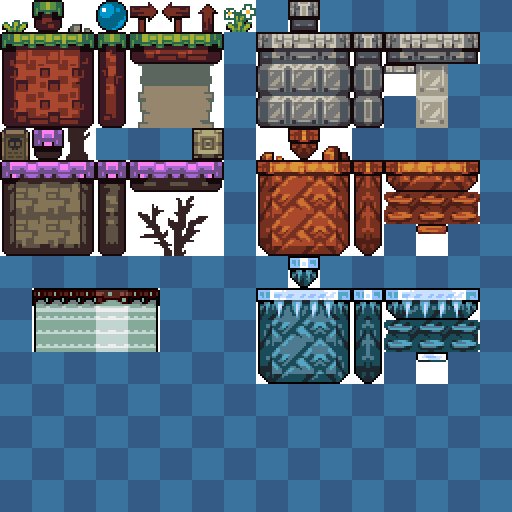
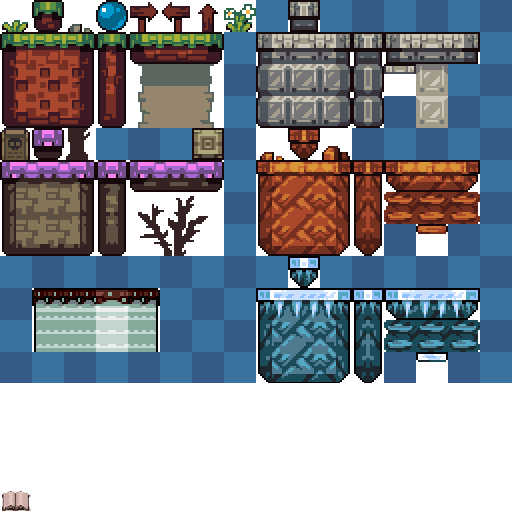
Book on splash page

Changed region(s): [[0.0, 0.75, 1.0, 1.0]]

diff --git a/dist/bundle.js b/dist/bundle.js
@@ -11801,12 +11801,13 @@ var _class = function (_Phaser$State) {
       game.load.spritesheet('rock', 'assets/images/spells/rock.png', 64, 64);
       game.load.spritesheet('bubble', 'assets/images/spells/bubble.png', 64, 64);
       game.load.spritesheet('priestess', 'assets/images/priestess.png', 64, 64);
-      this.game.load.tilemap('splashmap', 'assets/levels/splash.csv', null, _phaser2.default.Tilemap.CSV);0;
+      this.game.load.tilemap('splashmap', 'assets/levels/splash.csv', null, _phaser2.default.Tilemap.CSV);
       this.game.load.tilemap('l1', 'assets/levels/l1.csv', null, _phaser2.default.Tilemap.CSV);
       this.game.load.tilemap('l2', 'assets/levels/l2.csv', null, _phaser2.default.Tilemap.CSV);
       this.game.load.tilemap('l3', 'assets/levels/l3.csv', null, _phaser2.default.Tilemap.CSV);
       this.game.load.tilemap('l4', 'assets/levels/l4.csv', null, _phaser2.default.Tilemap.CSV);
       this.game.load.image('tiles', 'assets/images/tiles.png');
+      game.load.spritesheet('book', 'assets/images/book.png', 32, 32);
       this.game.load.image('forrest-background', 'assets/images/backgrounds/forrest.png');
       this.game.load.image('graveyard-background', 'assets/images/backgrounds/graveyard.png');
       this.game.load.image('clouds-background', 'assets/images/backgrounds/clouds.png');
@@ -11912,6 +11913,10 @@ var _class = function (_Phaser$State) {
       this.map.addTilesetImage('tiles');
       this.map.setTileIndexCallback(3, this.startGame, this);
 
+      this.book = this.game.add.sprite(225, 260, 'book');
+      this.turnPages = this.book.animations.add('turn');
+      this.turnPages.play(20, true);
+
       this.banner = this.add.text(this.screenWidth / 2, 80, 'Priestess');
       this.banner.font = 'acme';
       this.banner.padding.set(10, 16);
@@ -11928,8 +11933,6 @@ var _class = function (_Phaser$State) {
       var activeEffect = effectKeys[Math.floor(Math.random() * effectKeys.length)];
       var activeSpell = spellKeys[Math.floor(Math.random() * spellKeys.length)];
       var bow = Math.round(Math.random()) == 1;
-      console.log(effectKeys);
-      console.log(bow);
       //    activeSpell = 'lightning'
       //    activeEffect = 'tornado'
       //bow = true

diff --git a/src/states/Boot.js b/src/states/Boot.js
@@ -30,12 +30,13 @@ export default class extends Phaser.State {
     game.load.spritesheet('rock', 'assets/images/spells/rock.png', 64, 64);
     game.load.spritesheet('bubble', 'assets/images/spells/bubble.png', 64, 64);
     game.load.spritesheet('priestess', 'assets/images/priestess.png', 64, 64);
-    this.game.load.tilemap('splashmap', 'assets/levels/splash.csv', null, Phaser.Tilemap.CSV);0
+    this.game.load.tilemap('splashmap', 'assets/levels/splash.csv', null, Phaser.Tilemap.CSV);
     this.game.load.tilemap('l1', 'assets/levels/l1.csv', null, Phaser.Tilemap.CSV);
     this.game.load.tilemap('l2', 'assets/levels/l2.csv', null, Phaser.Tilemap.CSV);
     this.game.load.tilemap('l3', 'assets/levels/l3.csv', null, Phaser.Tilemap.CSV);
     this.game.load.tilemap('l4', 'assets/levels/l4.csv', null, Phaser.Tilemap.CSV);
     this.game.load.image('tiles', 'assets/images/tiles.png');
+    game.load.spritesheet('book', 'assets/images/book.png', 32, 32);
     this.game.load.image('forrest-background', 'assets/images/backgrounds/forrest.png');
     this.game.load.image('graveyard-background', 'assets/images/backgrounds/graveyard.png');
     this.game.load.image('clouds-background', 'assets/images/backgrounds/clouds.png');

diff --git a/src/states/Splash.js b/src/states/Splash.js
@@ -24,6 +24,11 @@ export default class extends Phaser.State {
     this.groundLayer.resizeWorld();
     this.map.addTilesetImage('tiles');
     this.map.setTileIndexCallback(3, this.startGame, this);
+
+    this.book = this.game.add.sprite(225, 260, 'book');
+    this.turnPages = this.book.animations.add('turn');
+    this.turnPages.play(20, true);
+
     
     this.banner = this.add.text(this.screenWidth / 2, 80, 'Priestess');
     this.banner.font = 'acme'
@@ -42,8 +47,6 @@ export default class extends Phaser.State {
     let activeEffect = effectKeys[Math.floor(Math.random() * effectKeys.length)]
     let activeSpell = spellKeys[Math.floor(Math.random() * spellKeys.length)]
     let bow = (Math.round(Math.random()) == 1)
-    console.log(effectKeys)
-    console.log(bow)
 //    activeSpell = 'lightning'
 //    activeEffect = 'tornado'
     //bow = true

diff --git a/assets/levels/splash.tsx b/assets/levels/splash.tsx
@@ -1,0 +1,4 @@
+<?xml version="1.0" encoding="UTF-8"?>
+<tileset name="goodly-2x" tilewidth="32" tileheight="32" tilecount="256" columns="16">
+ <image source="../../../../../Downloads/goodly-2x.png" width="512" height="512"/>
+</tileset>

diff --git a/assets/levels/untitled.tsx b/assets/levels/untitled.tsx
@@ -1,0 +1,4 @@
+<?xml version="1.0" encoding="UTF-8"?>
+<tileset name="tiles" tilewidth="32" tileheight="32" tilecount="256" columns="16">
+ <image source="../images/tiles.png" width="512" height="512"/>
+</tileset>
